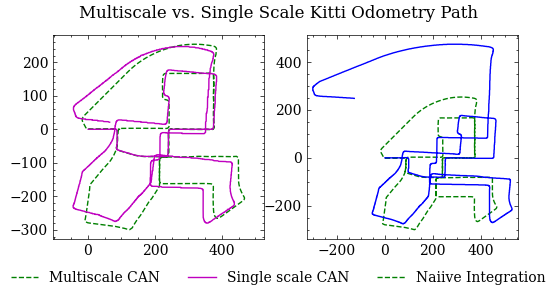
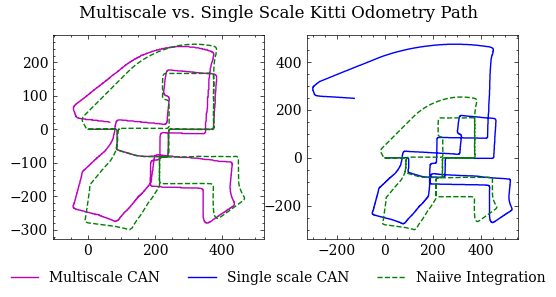
boo

diff --git a/scripts/MultiScale/SelectiveMultiScalewithWraparound2D.py b/scripts/MultiScale/SelectiveMultiScalewithWraparound2D.py
@@ -1325,14 +1325,14 @@ x_gridS,y_gridS, x_integS, y_integS, x_integ_err, y_integ_err= np.load(singlePat
 fig, (ax1,ax2) = plt.subplots(1,2,figsize=(6, 3))
 fig.suptitle('Multiscale vs. Single Scale Kitti Odometry Path')
 plt.subplots_adjust(bottom=0.2)
-ax1.plot(x_integM, y_integM, 'g--')
-l1=ax1.plot(x_gridM, y_gridM, 'm-')
+l2,=ax1.plot(x_gridM, y_gridM, 'm-')
+l1,=ax1.plot(x_integM, y_integM, 'g--')
 ax1.axis('equal')
 
-l3=ax2.plot(x_integS, y_integS, 'g--')
-l2=ax2.plot(x_gridS, y_gridS, 'b-')
+l3,=ax2.plot(x_gridS, y_gridS, 'b-')
+l4,=ax2.plot(x_integS, y_integS, 'g--')
 ax2.axis('equal')
 
-fig.legend([l1, l2,l3], labels=['Multiscale CAN', 'Single scale CAN','Naiive Integration'],loc='lower center',ncol=3)
+fig.legend((l2, l3, l4), ('Multiscale CAN', 'Single scale CAN','Naiive Integration'),loc='lower center',ncol=3)
 plt.savefig('./results/TestEnvironmentFiles/KittiSinglevsMulti.png')
 
